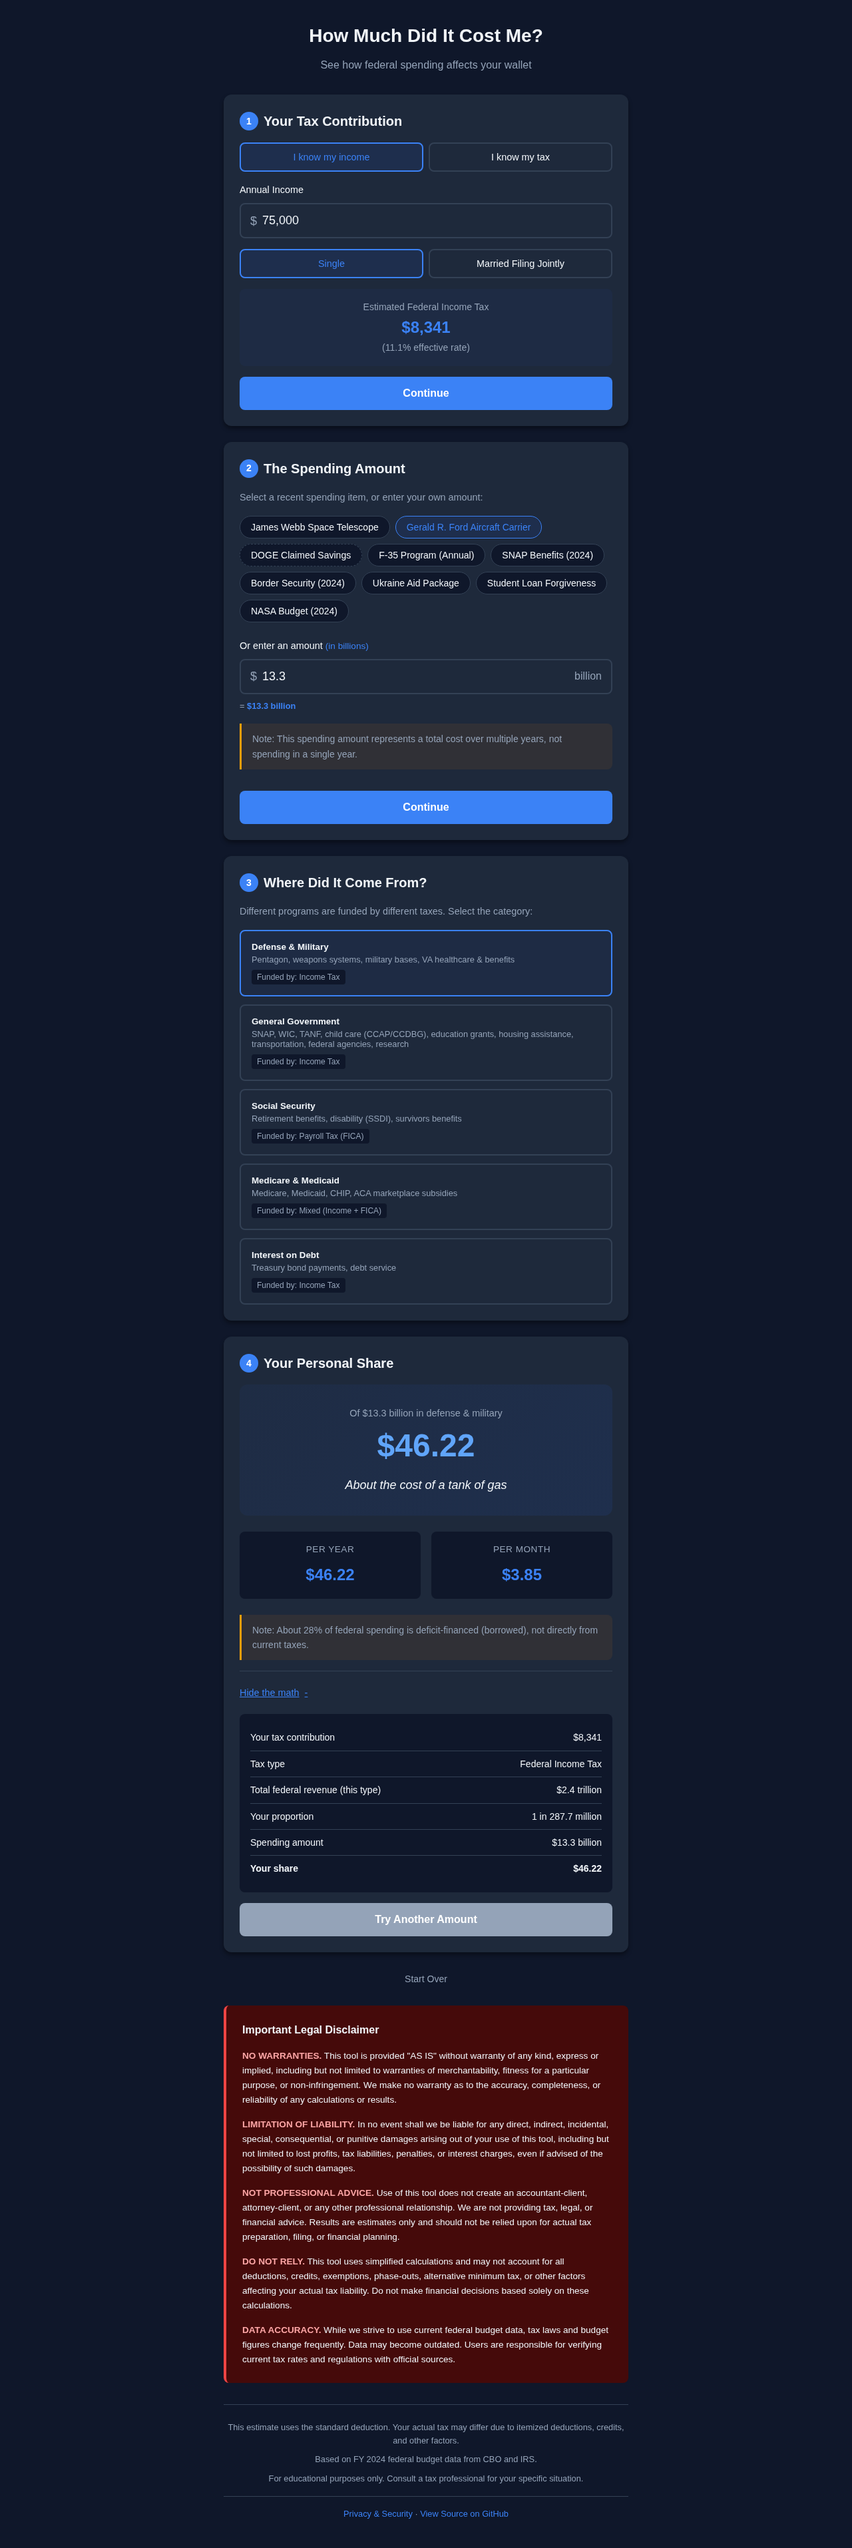
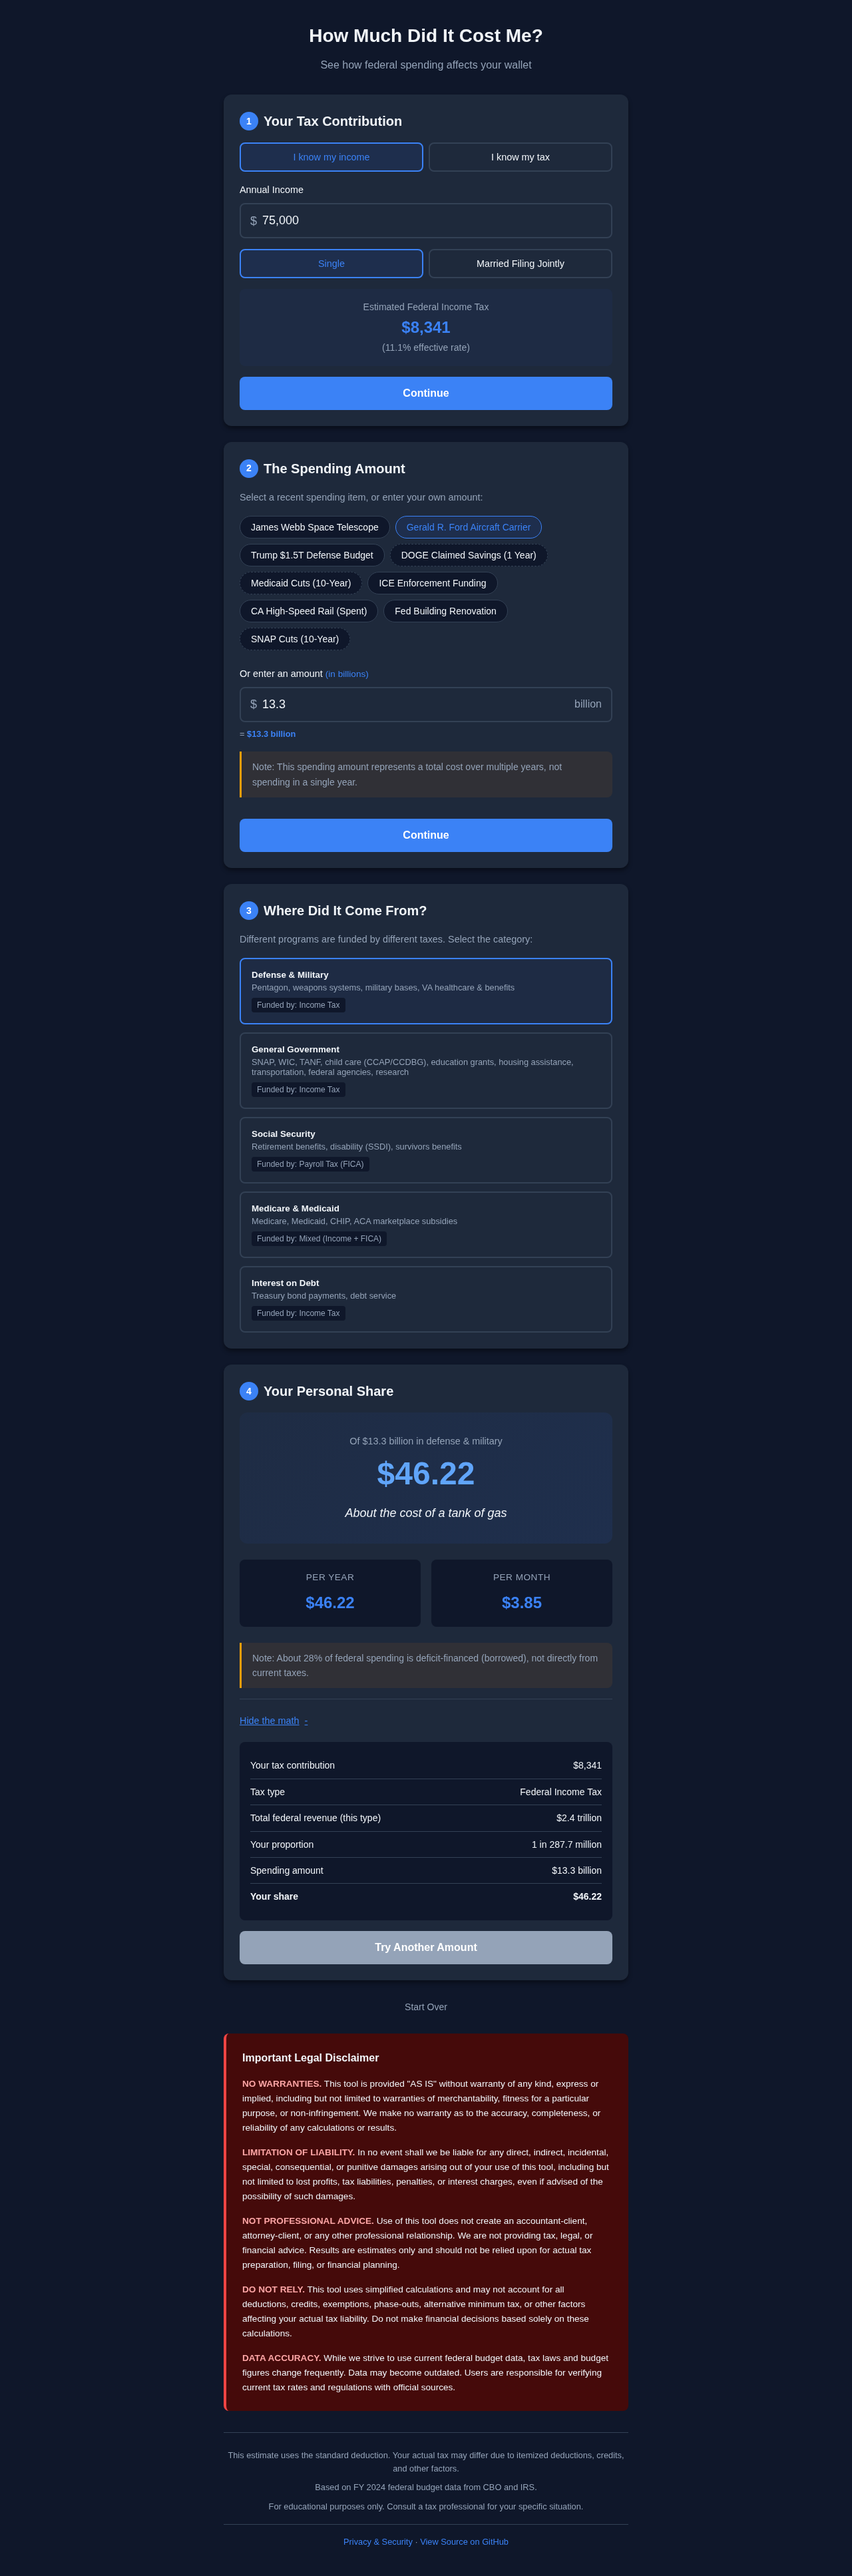
Update trending spending items for January 15, 2026
Replace outdated trending items with current news:
- Trump $1.5T Defense Budget (proposed FY2027)
- DOGE Claimed Savings updated to $214B (1-year total)
- Medicaid Cuts $911B (One Big Beautiful Bill Act)
- ICE Enforcement Funding $75B (major increase)
- CA High-Speed Rail $15B spent to date
- Fed Building Renovation $2.5B (Powell investigation)
- SNAP Cuts $186B (largest food assistance cut)

diff --git a/js/data.js b/js/data.js
@@ -153,61 +153,63 @@ const PERMANENT_SPENDING = {
 // The workflow searches for spending scandals, controversies, and hot topics
 const TRENDING_SPENDING = {
   trending1: {
-    label: 'DOGE Claimed Savings',
-    value: 55_000_000_000,           // $55 billion (claimed savings as of early 2025)
-    source: 'DOGE official claims',
-    lastVerified: '2025-01-10',
-    category: 'general',
-    notes: 'Claimed cost savings from Department of Government Efficiency - accuracy disputed',
-    isSavings: true                  // This is a savings amount, not spending
+    label: 'Trump $1.5T Defense Budget',
+    value: 1_500_000_000_000,        // $1.5 trillion (proposed FY2027 defense budget)
+    source: 'White House / CRFB analysis',
+    lastVerified: '2026-01-15',
+    category: 'defense',
+    notes: 'Trump proposed increasing defense budget from $1T to $1.5T - would add $5.8T to debt over decade'
   },
   trending2: {
-    label: 'F-35 Program (Annual)',
-    value: 12_000_000_000,           // $12 billion (approximate annual spending)
-    source: 'Department of Defense',
-    lastVerified: '2025-01-10',
-    category: 'defense',
-    notes: 'Annual F-35 Lightning II program costs - frequently debated'
+    label: 'DOGE Claimed Savings (1 Year)',
+    value: 214_000_000_000,          // $214 billion (claimed savings after one year)
+    source: 'DOGE official claims',
+    lastVerified: '2026-01-15',
+    category: 'general',
+    notes: 'Claimed savings from DOGE first year - fell far short of $1T goal, accuracy disputed',
+    isSavings: true                  // This is a savings amount, not spending
   },
   trending3: {
-    label: 'SNAP Benefits (2024)',
-    value: 113_000_000_000,          // $113 billion (FY2024)
-    source: 'USDA',
-    lastVerified: '2025-01-10',
-    category: 'general',
-    notes: 'Supplemental Nutrition Assistance Program - often in political debates'
+    label: 'Medicaid Cuts (10-Year)',
+    value: 911_000_000_000,          // $911 billion (cuts through 2034)
+    source: 'Congressional Budget Office',
+    lastVerified: '2026-01-15',
+    category: 'medicare',
+    notes: 'One Big Beautiful Bill Act cuts - 11.8 million projected to lose coverage',
+    isSavings: true                  // These are spending reductions
   },
   trending4: {
-    label: 'Border Security (2024)',
-    value: 25_000_000_000,           // $25 billion (FY2024 estimate)
-    source: 'DHS Budget',
-    lastVerified: '2025-01-10',
+    label: 'ICE Enforcement Funding',
+    value: 75_000_000_000,           // $75 billion (allocated through 2029)
+    source: 'One Big Beautiful Bill Act',
+    lastVerified: '2026-01-15',
     category: 'general',
-    notes: 'Border security and immigration enforcement - ongoing political debate'
+    notes: 'Massive increase for deportation operations - 400% increase from prior year'
   },
   trending5: {
-    label: 'Ukraine Aid Package',
-    value: 61_000_000_000,           // $61 billion (2024 aid package)
-    source: 'Congressional Budget',
-    lastVerified: '2025-01-10',
-    category: 'defense',
-    notes: 'Military and economic assistance to Ukraine - contentious topic'
+    label: 'CA High-Speed Rail (Spent)',
+    value: 15_000_000_000,           // $15 billion (total spent to date)
+    source: 'U.S. Department of Transportation',
+    lastVerified: '2026-01-15',
+    category: 'general',
+    notes: '16 years, $15B spent, 119 miles built of 800-mile project - Trump pulled remaining $4B federal funds'
   },
   trending6: {
-    label: 'Student Loan Forgiveness',
-    value: 138_000_000_000,          // $138 billion (cumulative forgiveness 2021-2024)
-    source: 'Department of Education',
-    lastVerified: '2025-01-10',
+    label: 'Fed Building Renovation',
+    value: 2_500_000_000,            // $2.5 billion (renovation cost)
+    source: 'Federal Reserve / Bloomberg',
+    lastVerified: '2026-01-15',
     category: 'general',
-    notes: 'Various student debt relief programs - politically divisive'
+    notes: 'DOJ investigating Powell over cost overruns - rose from $1.9B to $2.5B (not taxpayer funded)'
   },
   trending7: {
-    label: 'NASA Budget (2024)',
-    value: 25_000_000_000,           // $25 billion (FY2024)
-    source: 'NASA',
-    lastVerified: '2025-01-10',
+    label: 'SNAP Cuts (10-Year)',
+    value: 186_000_000_000,          // $186 billion (cuts through 2034)
+    source: 'Congressional Budget Office',
+    lastVerified: '2026-01-15',
     category: 'general',
-    notes: 'Artemis program and Mars exploration - popular but debated spending'
+    notes: 'Largest food assistance cut in history - 4 million projected to lose benefits',
+    isSavings: true                  // These are spending reductions
   }
 };
 
